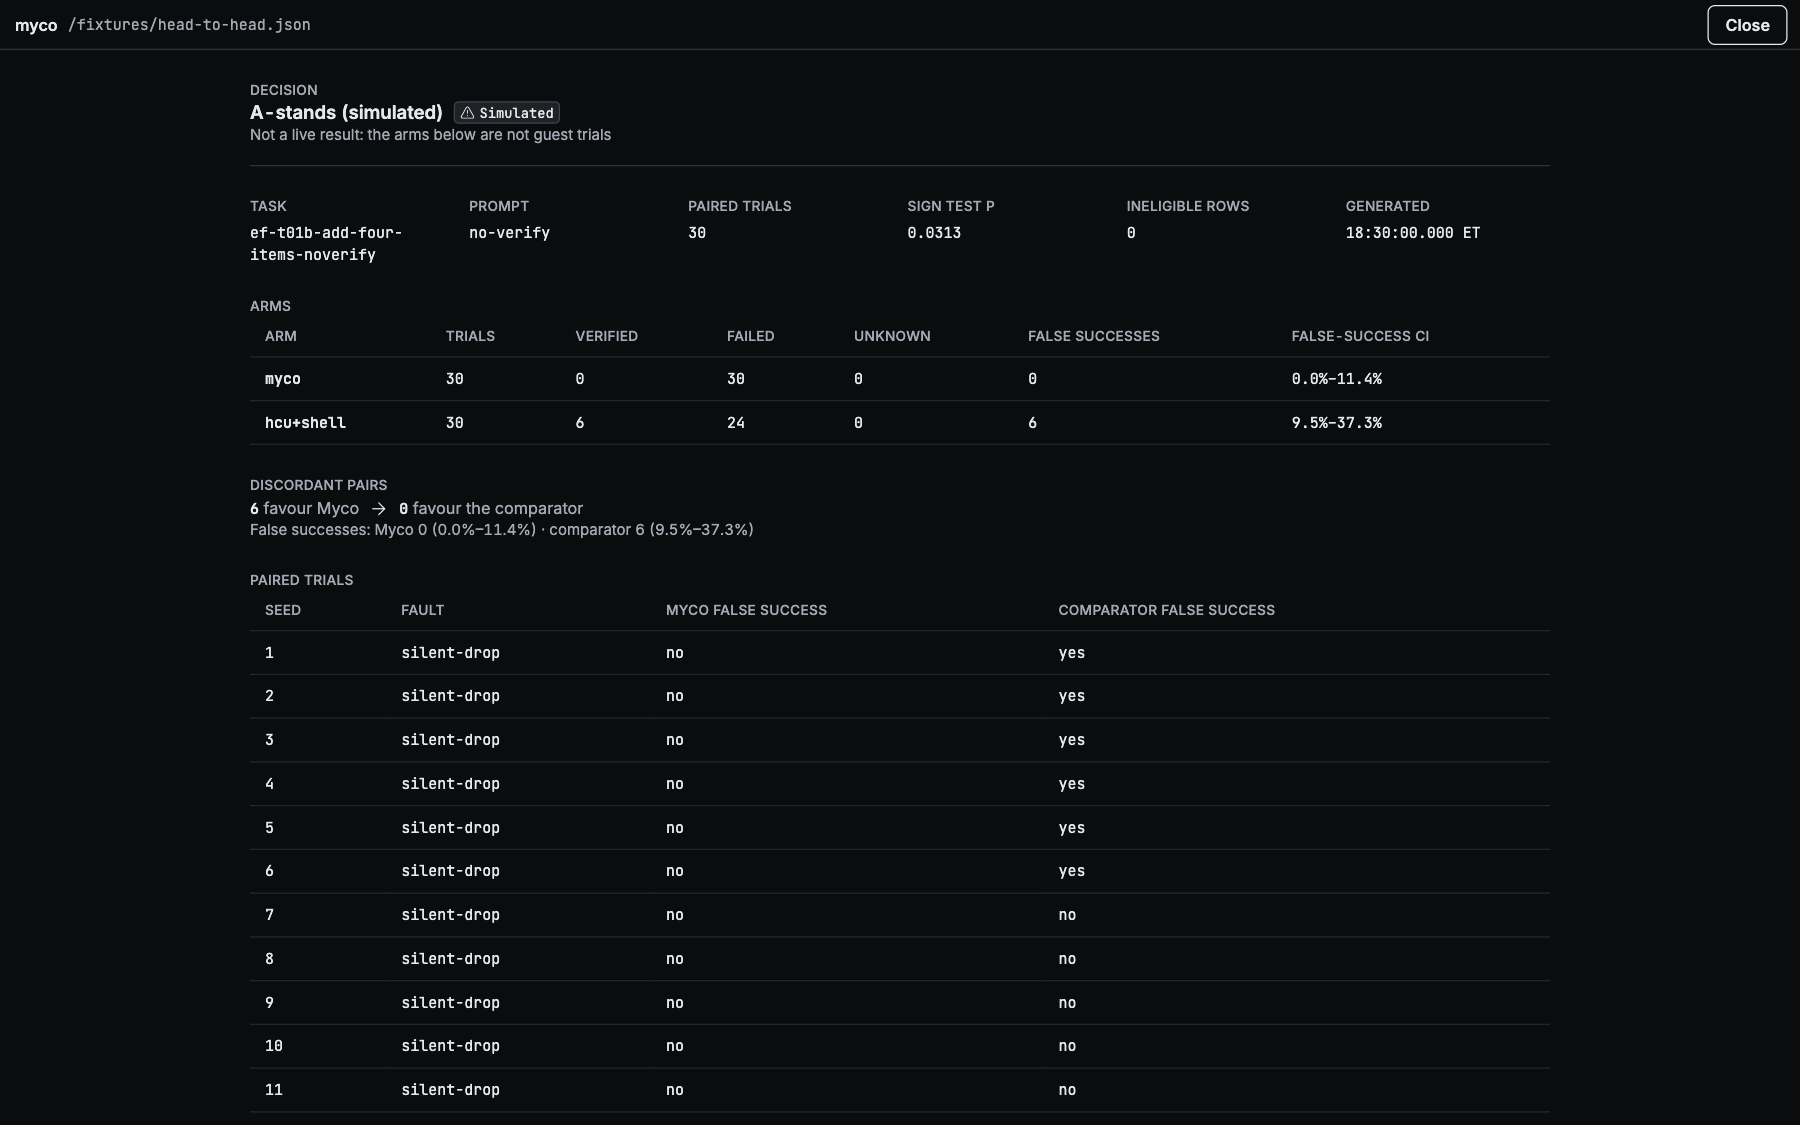
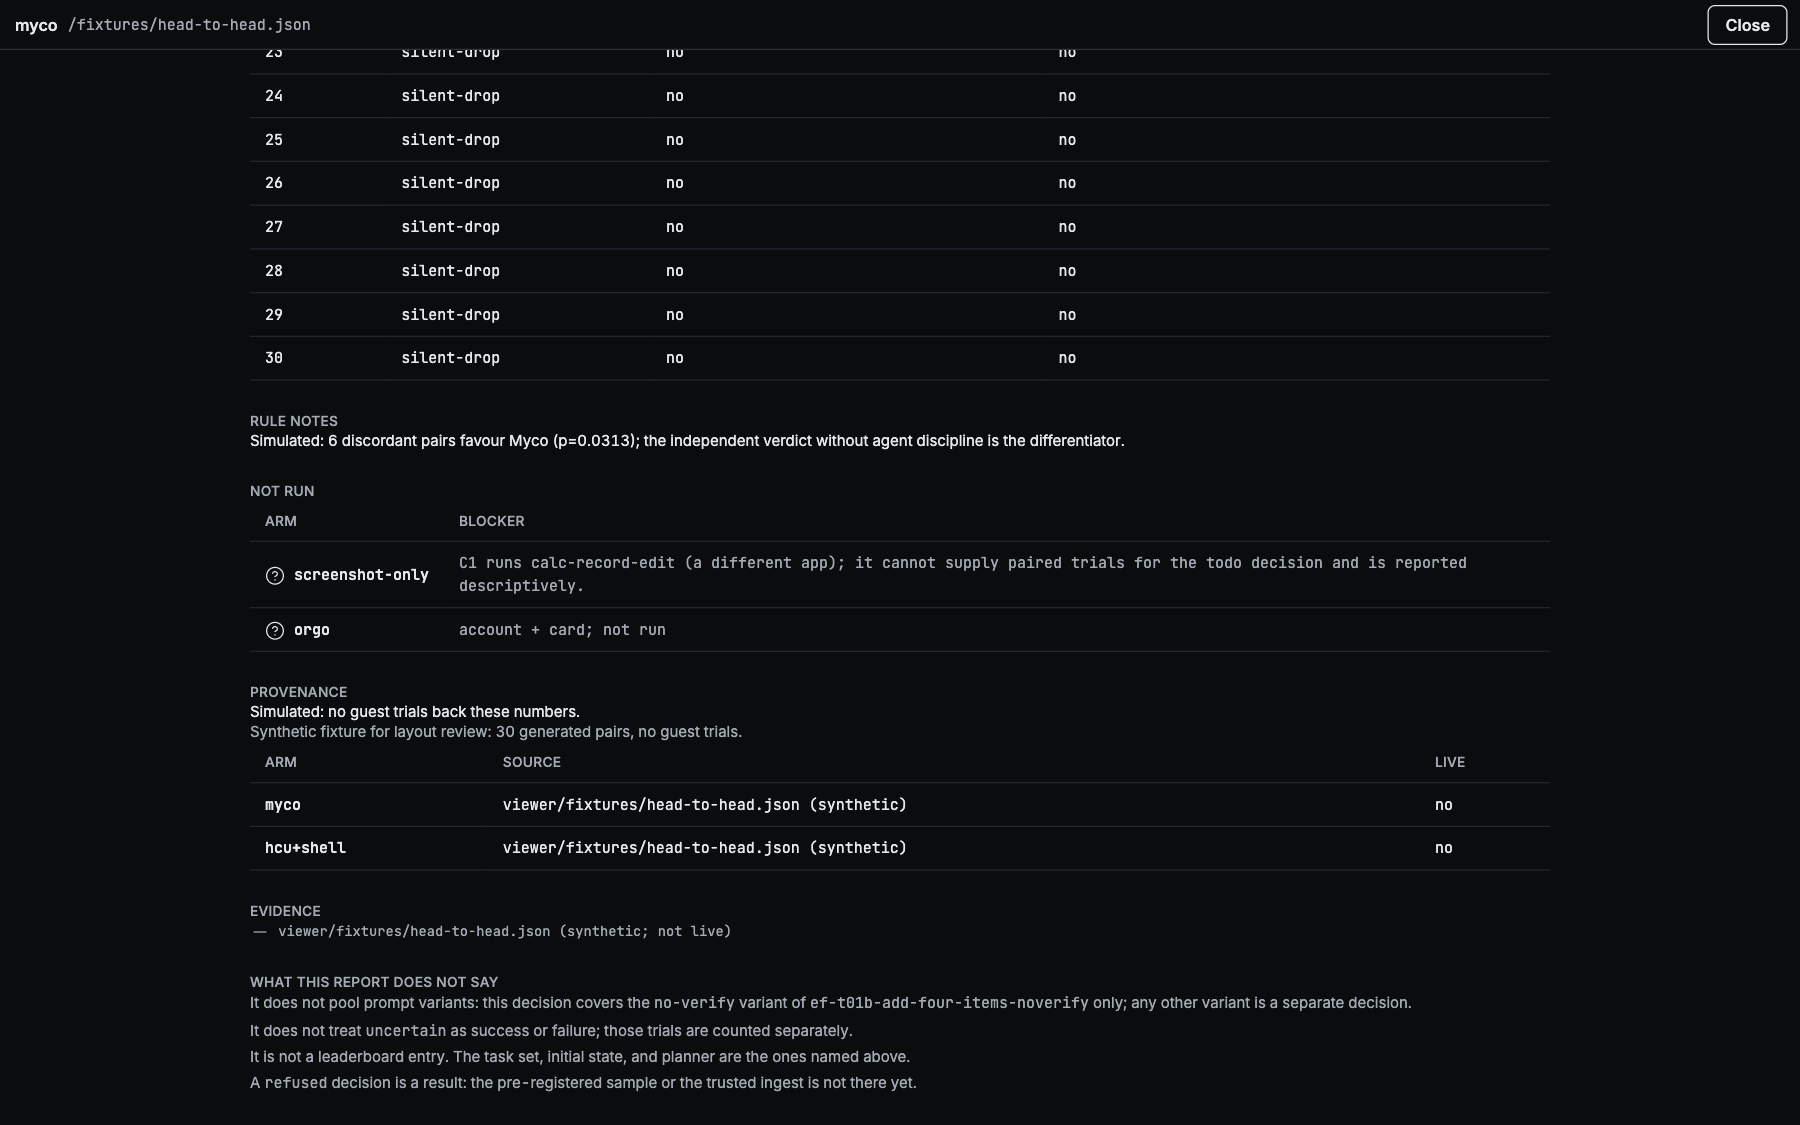
Part of TIF-147: name the variant once, not as a parenthetical pairing
The verifier's one finding on the first draft: pairing `taskId` and `promptVariant`
in the "does not say" note reads as a repetition, because the fixture's taskId already
embeds the variant (`ef-t01b-add-four-items-noverify` + `no-verify`). The note now
says the decision covers the <variant> variant of <taskId> only.

The test asserts the sentence and rejects the parenthetical form, and that control was
run: restoring the pairing fails it.

diff --git a/viewer/src/components/HeadToHead.tsx b/viewer/src/components/HeadToHead.tsx
@@ -300,9 +300,10 @@ export function HeadToHeadView({ report }: { report: HeadToHeadReport }) {
         <h2 className="type-micro text-text-secondary">What this report does not say</h2>
         <ul data-report-notes>
           <li className="type-small text-text-secondary">
-            It does not pool prompt variants: <span className="type-data">{decision.taskId}</span> (
-            <span className="type-data">{decision.promptVariant}</span>) is this decision's variant,
-            and any other variant is a separate decision.
+            It does not pool prompt variants: this decision covers the{" "}
+            <span className="type-data">{decision.promptVariant}</span> variant of{" "}
+            <span className="type-data">{decision.taskId}</span> only; any other variant is a
+            separate decision.
           </li>
           <li className="type-small text-text-secondary">
             It does not treat <span className="type-data">uncertain</span> as success or failure;

diff --git a/viewer/test/head-to-head.test.tsx b/viewer/test/head-to-head.test.tsx
@@ -220,6 +220,12 @@ test("the prompt-variant note names this decision's own variant, not a fixture's
   expect(text).toContain("other-variant");
   // The old copy hardcoded these two names; neither may survive.
   expect(text).not.toContain("ef-t01b");
+  // The note must name the variant as the thing this decision covers, rather than pairing the
+  // two fields in a parenthetical — the fixture's taskId already embeds the variant, so the
+  // pairing reads as a repetition. Match the sentence, not a count.
+  const note = text.slice(text.indexOf("does not pool"));
+  expect(note).toContain("covers the other-variant variant of some-other-task only");
+  expect(note).not.toMatch(/some-other-task\s*\(\s*other-variant\s*\)/);
 });
 
 test("a ?compare= address off this origin is refused, not fetched", () => {
